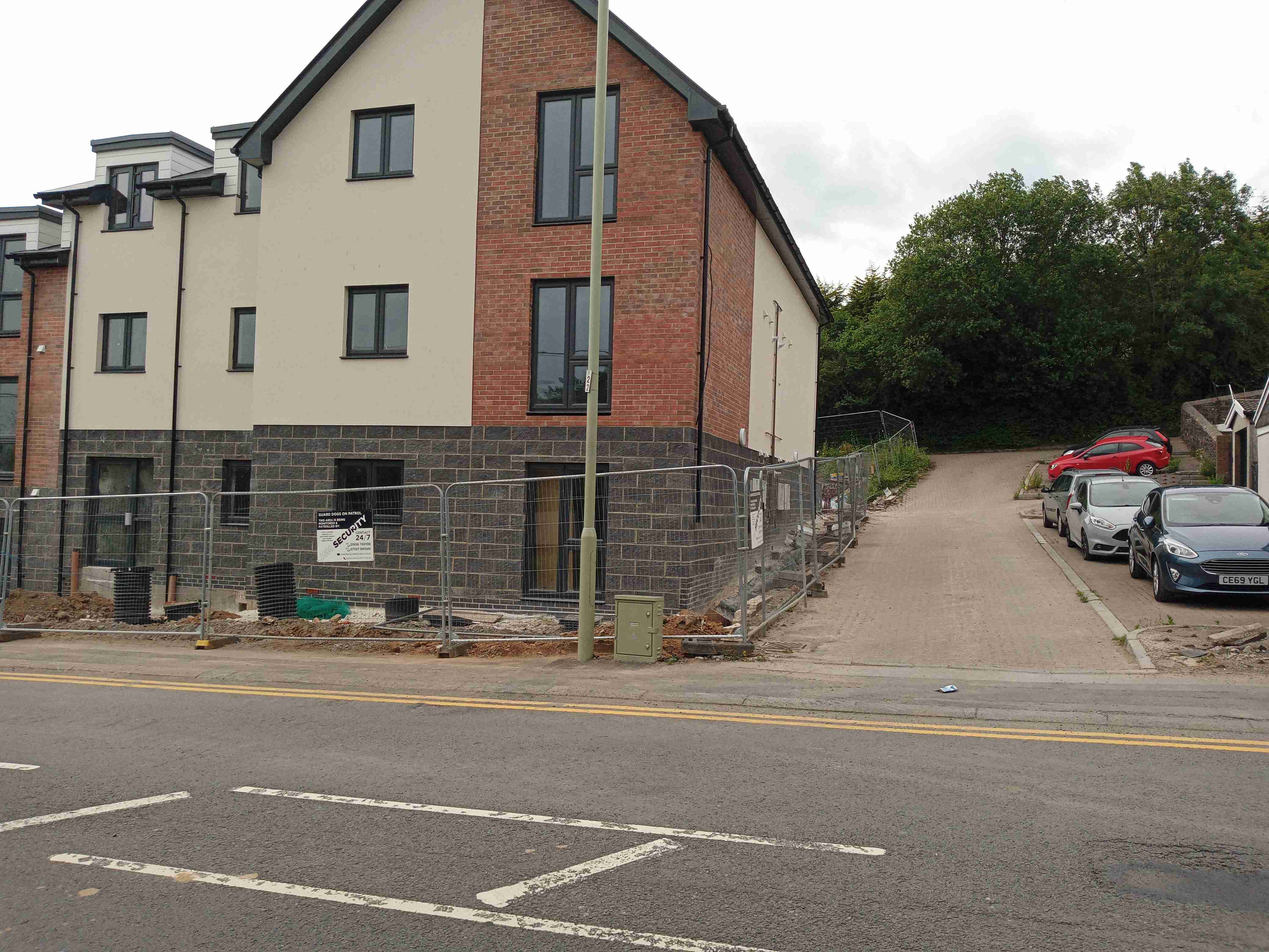
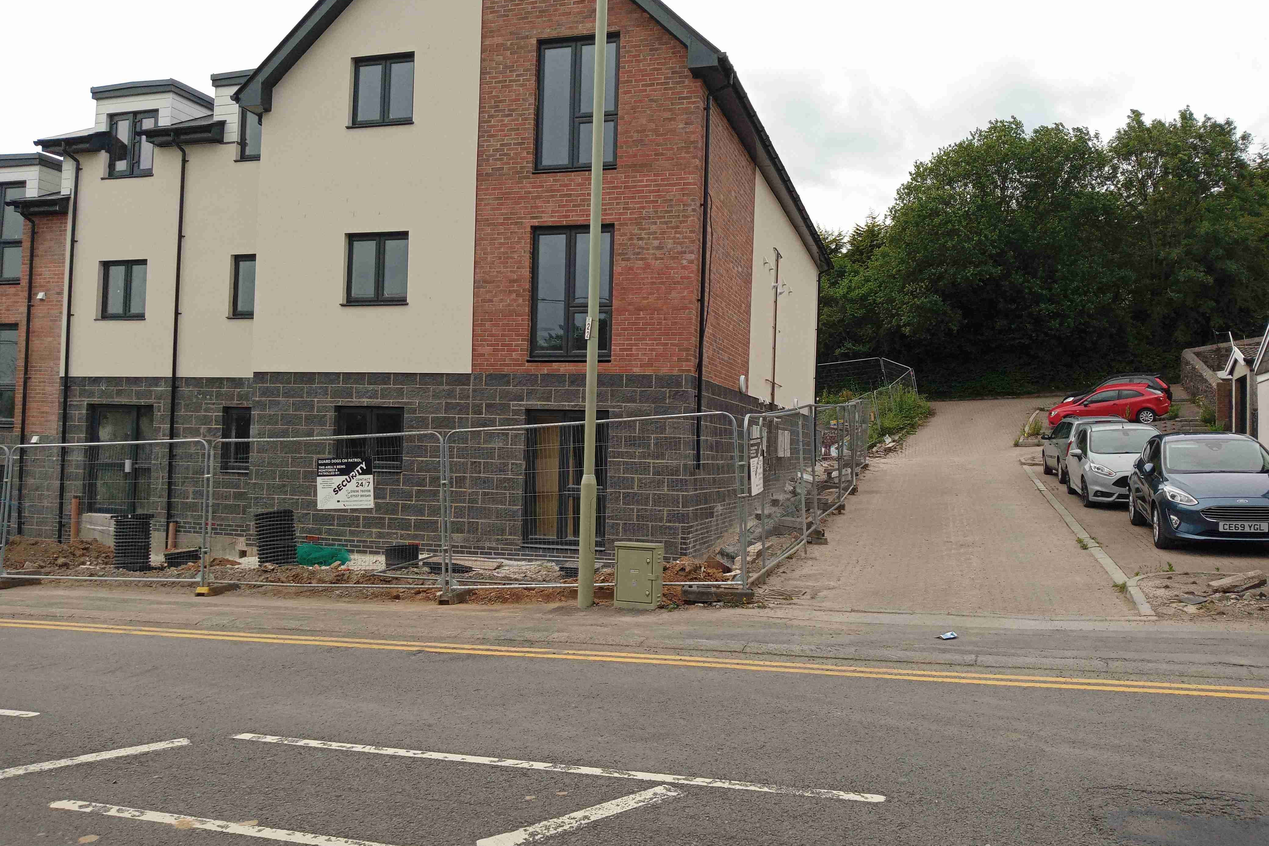
README.md updated with final spelling and layout changes. TESTING.md updated with more validation work. images changed as lighthouse scorees too low and images too large. style.css amended to remove obsolete code. javascript code amended to remove any errors from validation.

diff --git a/index.html b/index.html
@@ -28,45 +28,48 @@
 <!-- BODY -->
 <body>
     <nav class="container-fluid sticky-top" id="navbar">
-        <div class="navbar-dark navbar navbar-expand-lg">
-            <a href="index.html"><h3 class="menu-options" id="home">Smart Associates</h3>
-            <p class="menu-options">Consulting Civil & Structural Engineers</p></a>
-            <button class="navbar-toggler" type="button" data-toggle="collapse" data-target="#navbarSurpportedContent"
+        <div class="row">
+            <div class="col-10 offset-md-1">
+                <div class="navbar-dark navbar navbar-expand-lg">
+                    <a href="index.html"><h3 class="menu-options" id="home">Smart Associates</h3>
+                    <p class="menu-options">Consulting Civil & Structural Engineers</p></a>
+                    <button class="navbar-toggler" type="button" data-toggle="collapse" data-target="#navbarSurpportedContent"
                     aria-controls="navbarSurpportedContent" aria-expanded="false" aria-label="Toggle navigation">
-            <span class="navbar-toggler-icon"></span>
-            </button>
-            <div class="collapse navbar-collapse justify-content-end" id="navbarSurpportedContent">
-                <ul class="nav-centre navbar-nav">
-                    <li class="nav-item">
+                    <span class="navbar-toggler-icon"></span></button>
+                    <div class="collapse navbar-collapse justify-content-end" id="navbarSurpportedContent">
+                        <ul class="nav-centre navbar-nav">
+                        <li class="nav-item">
                         <a href="#services"><h3 class="menu-options" id="services">Services</h3></a>
-                    </li>
-                    <li class="nav-item">
+                         </li>
+                        <li class="nav-item">
                         <a href="#projects"><h3 class="menu-options" id="projects">Projects</h3></a>
-                    </li>
-                    <li class="nav-item">
+                        </li>
+                        <li class="nav-item">
                         <a href="#contact-us"><h3 class="menu-options" id="contact-us">Contact Us</h3></a>
-                    </li>
-                </ul>
+                        </li>
+                        </ul>
+                    </div>
+                </div>
             </div>
         </div>
     </nav>
     <div class="container-fluid backdrop">
-        <div class="container-fluid">
-            <div class="row">
-                <div class="col-md">
-                    <img id="myImg" src="assets/images/index/coverimage4.jpg" alt="Project Images">
-                    <noscript>
+        <div class="row">
+            <div class="col">
+                <div>
+                    <img id="myImg" src="assets/images/index/coverimage1.jpg" alt="Project Images">
+                </div>
+                <noscript>
                         <div class="centered javascript menu-text">
                             <h2>We're sorry but our site <strong>requires</strong> JavaScript.</h2>
                             <h4>To enable JavaScript in your browser please follow this <a href="https://www.enablejavascript.io/en" target="_blank" rel="noopener">link</a></h4>
                         </div>    
-                    </noscript>
-                </div>
+                </noscript>
             </div>
-            <div class="row">
-                <div class="col-md">
+        </div>
+        <div class="row">
+            <div class="col">
                     <h3 class="menu-options backdrop-blue centered">Designing, detailing, reporting, and advising on the built environment for our clients for over 50 years.</h3>
-                </div>
             </div>
         </div>
     </div>  
@@ -97,13 +100,13 @@
     <footer class="backdrop-blue">
         <div class="container-fluid">
             <div class="row">
-                <div class="col-6">
+                <div class="col-5 offset-md-1">
                     <div>
                         <p class="menu-options"> &copy; Smart Associates Limited</p>
                     </div>
                 </div>
-                <div class="col-6">
-                    <p class="menu-options float-right"> Website designed by &copy; <a class="menu-options" href="https://www.linkedin.com/feed/">Michael Greenberry</a></p>
+                <div class="col-5 offset-md+1">
+                    <p class="menu-options"> Website designed by &copy; <a class="menu-options" href="https://www.linkedin.com/feed/">Michael Greenberry</a></p>
                 </div>
             </div>
         </div>
@@ -125,7 +128,7 @@
     <script src="assets/js/projects.js"></script>
     <script src="assets/js/map.js"></script>
     <script src="assets/js/contactUs.js"></script>
-    <script src="https://maps.googleapis.com/maps/api/js?key=AIzaSyA3RRfIzJ4FU8fgAYMGKOansWEGBPd7aOY&callback=initMap&libraries=&v=weekly" defer></script>
+    <script src="https://maps.googleapis.com/maps/api/js?key=AIzaSyA3RRfIzJ4FU8fgAYMGKOansWEGBPd7aOY&libraries=&v=weekly" defer></script>
     <script src="https://developers.google.com/maps/documentation/javascript/examples/markerclusterer/markerclusterer.js"></script>
     <!-- Accessibility functionality found at https://userway.org/ -->
     <script>(function(){let s = document.createElement("script");s.setAttribute("data-account","2tBWIE154m");s.setAttribute("src","https://cdn.userway.org/widget.js");document.body.appendChild(s);})();</script>

diff --git a/assets/css/style.css b/assets/css/style.css
@@ -21,8 +21,12 @@
   margin-top: 1em;
 }
 #myImg {
+  margin-top: 9rem;
+  display: block;
+  margin-left: auto;
+  margin-right: auto;
   max-width: 100%;
-  margin-top: 10rem;
+  max-height: 40rem;
 }
 .box {
   background: #0f2f4e;  
@@ -127,10 +131,6 @@ Code adapted from https://www.w3schools.com/howto/howto_js_navbar_sticky.asp  */
   font-size: 6rem;
   margin-top: 0;
   text-align: center;
-}
-.float-right {
-  float: right;
-  padding-right: 1rem;
 }
 
 #map {

diff --git a/assets/js/services.js b/assets/js/services.js
@@ -11,7 +11,7 @@ function services() {
       </div>
       <div class="row">
         <div class="col-md-6 offset-md-1">
-          <h3>Civil Engeneering</h3>
+          <h3>Civil Engineering</h3>
           <ul>
             <li>Site Inspections</li>
             <li>Feasability Studies</li>

diff --git a/README.md b/README.md
@@ -146,7 +146,7 @@ From: [Coolors Palette](https://coolors.co/031a6b-f71735-6b7fd7)
 
 #### Imagery
 
-All images and photographs were selected by the Directors of Smart Associates from several folders of more photographs which were sourced from Alan Vile, Technical Engineer, Smart Associates.
+All images and photographs were selected by the Directors of Smart Associates from several folders of more photographs which were sourced from Alan Vile, Technical Engineer, Smart Associates. **Images will need to be amended before the website goes live as number plates can be seen in some photographs.**
 
 * Favicom:
   * Smart Associates: [Hero Image](assets/images/index/sa-logo.jpg) - This is taken from Letterhead logo.
@@ -263,13 +263,7 @@ Every page contains the following features at the top of the website as standard
 * A responsive navigation bar, which reduces into a 'hamburger' navigation bar on mobiles. Allows all users to click on the page they want and access said page easily. Each navigation bar has the following links: -
   1. services - allows users to access the services by clicking the services menu option
   2. projects - allows users to access the projects page offered by the business by clicking the projects menu option
-  3. contact-us.html - allows users to make contact with the business by filling in a form and pressing submit. This will send an email to the company with the users message. Access for checking: -
-  
-  Username:- smartassociates4@gmail.com. 
-  
-  Password is SmartAss32). 
-  
-  Users can also clear the form if they make errors and re-submit correct details if required.
+  3. contact-us.html - allows users to make contact with the business by filling in a form and pressing submit. This will send an email to the company with the users message. Users can also clear the form if they make errors and re-submit correct details if required.
 * A hero image, or main image of a selection of project photos.
 * A strapline, or header, which gives the title of the page being visited
 

diff --git a/TESTING.md b/TESTING.md
@@ -154,10 +154,7 @@ This form contained 4 fields to be filled in by the user. All fields were set to
    * Expectation 1: - Entering text in the right format in all fields and then pressing 'Submit' button allows the form to be submitted
    * Expectation 2: - Entering the correct email address in both email address and confirm email address fields.
    * Test: - Filled in form using my name, email address and dummy message
-   * Result: - I accessed the google account - 
-        username: -smartassociates4@gmail.com 
-        password - SmartAss32 
-    and saw messages I had typed.
+   * Result: - I accessed the google account and saw messages I had typed.
    * Result: - A message 'Thank you for confirming your email address' appears in the form
    * Verdict: - Working as intended
 
@@ -235,8 +232,6 @@ The following are the User Stories from the README.md page and the resulting Tes
   10. I want to send an email to the company using th form provided.
       * Test: - The 'Contact Us' links in the top Navigation and Footer bars directed to the 'Contact Us' content. I entered information into the form
       * Result: - The information in the form was then available to see in the email
-        username: -smartassociates4@gmail.com 
-        password - SmartAss32 
       * Verdict: - Success
 
 * For the above, when designing the website I did the following to resolve the User Story desires:-
@@ -261,6 +256,7 @@ The following are the User Stories from the README.md page and the resulting Tes
 
 [Back to content](#table-of-contents)
 ## Bugs
+
 
 
 
